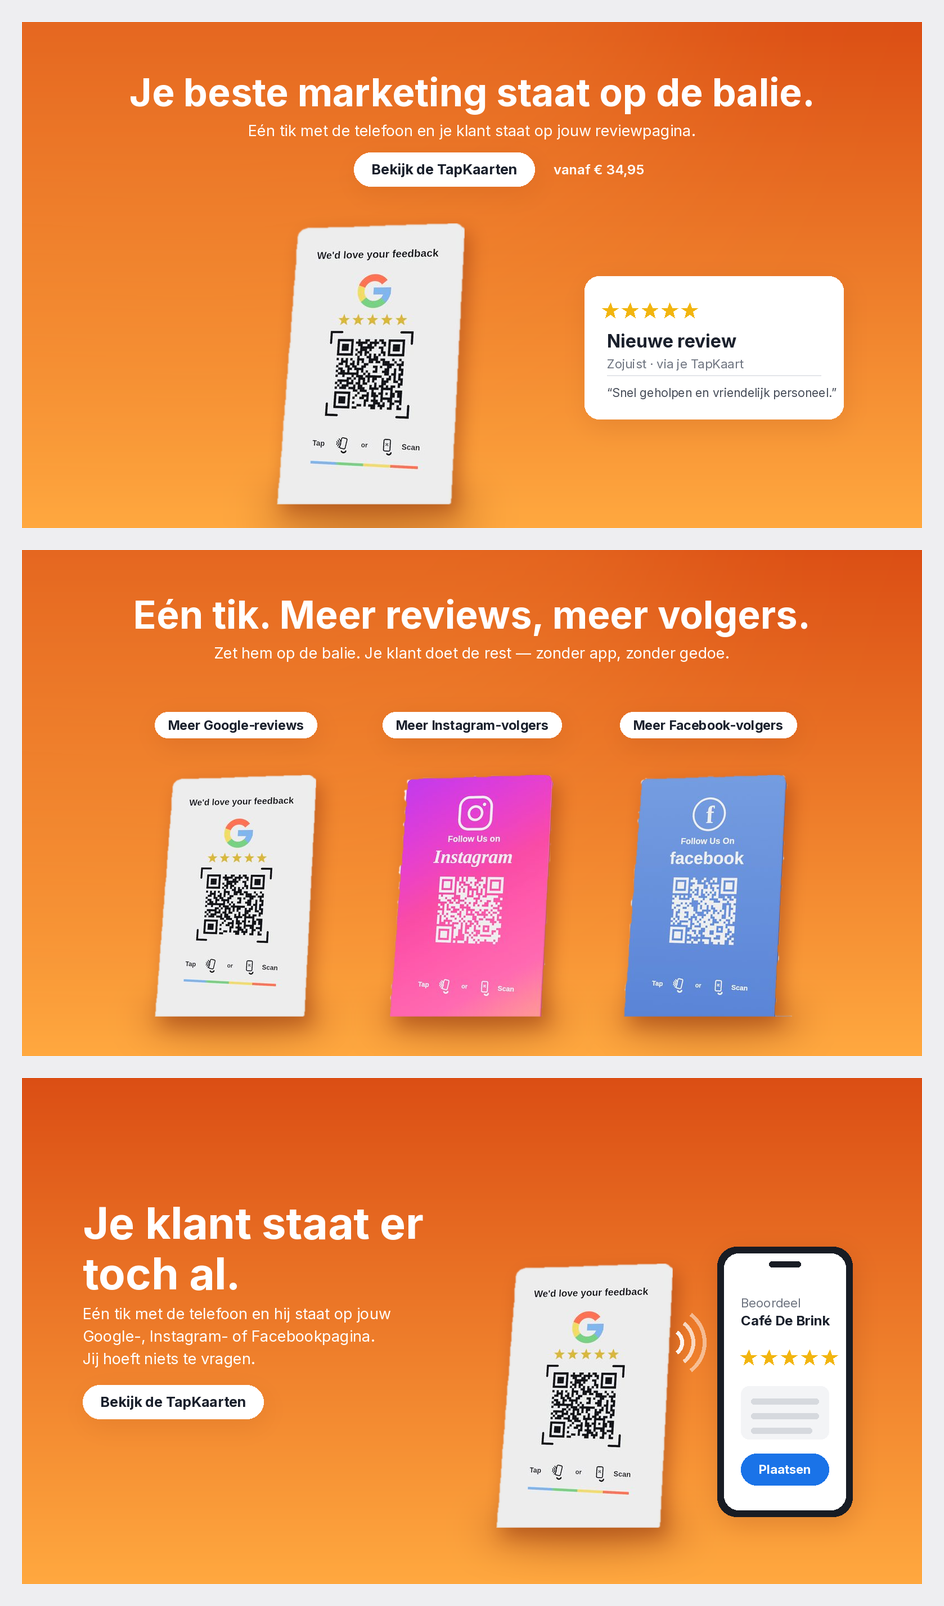
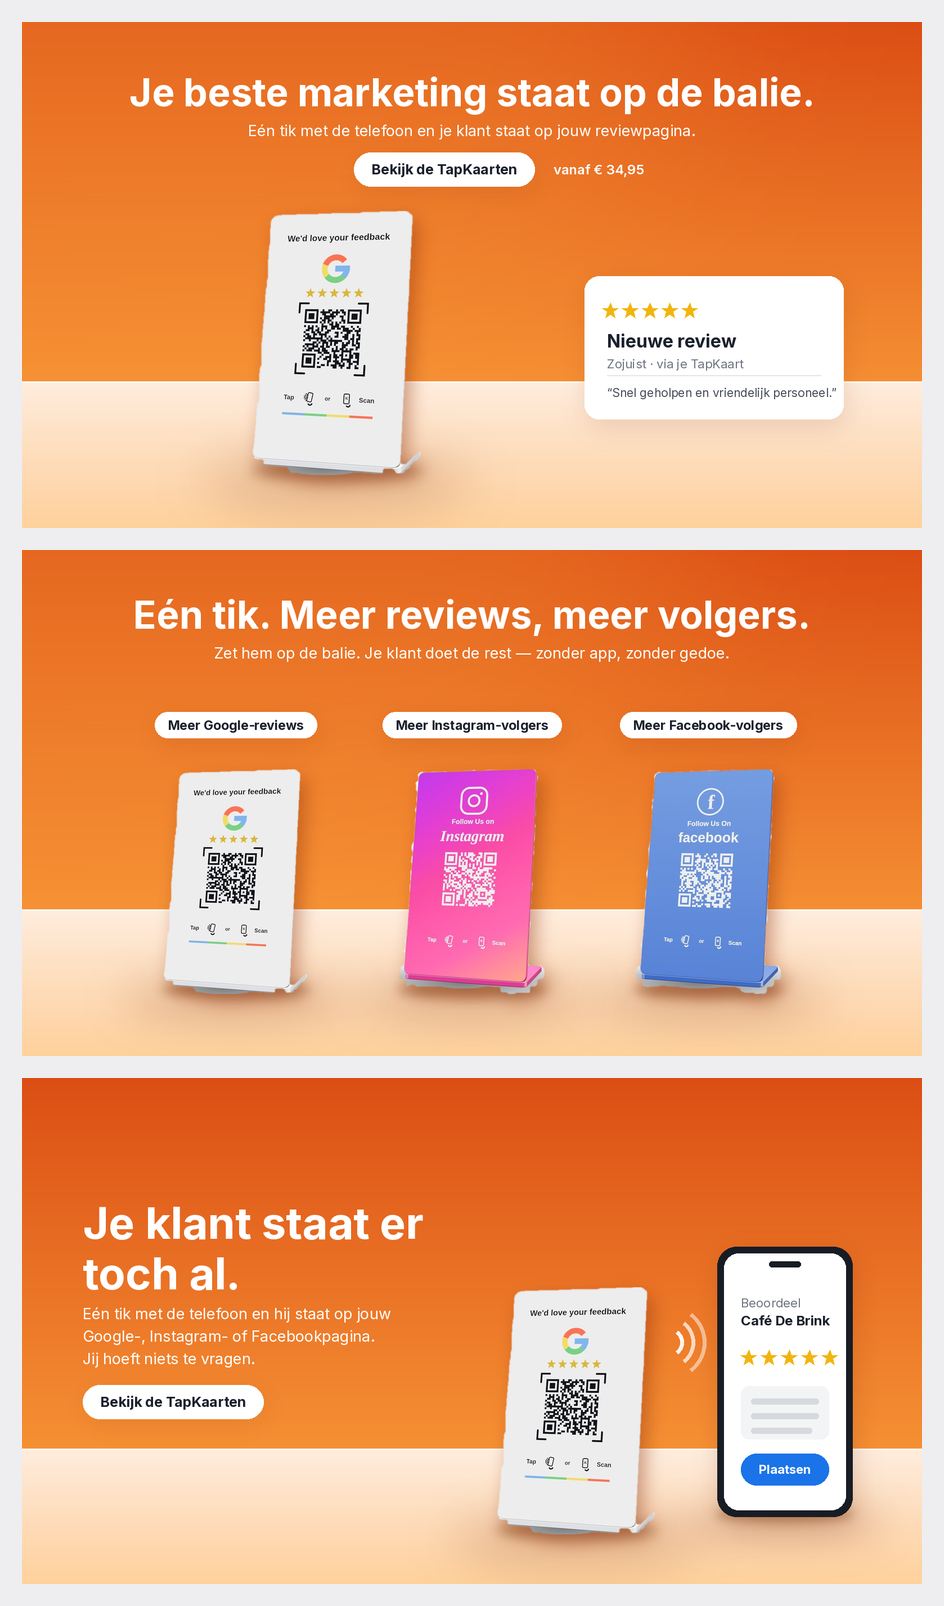
Hero-voorstellen: de voet erop en een balie eronder
De bordjes lazen als kaartjes. Twee oorzaken: de voet was weggeknipt bij
het scheiden van de slagschaduw, en er was geen vlak om op te staan.

De schaduw wordt nu op kleur herkend in plaats van op breedte — hij houdt
de blauwzweem van de achtergrond, het product niet. Daarmee blijft de voet
staan. Verder een balieblad met contactschaduw onder elk bordje.

Changed region(s): [[0.0, 0.467, 0.9831, 0.6849], [0.0, 0.1245, 0.9831, 0.3425], [0.0, 0.7783, 0.9831, 0.9963]]

diff --git a/webshop/hero-voorstellen/uitknippen.py b/webshop/hero-voorstellen/uitknippen.py
@@ -58,48 +58,66 @@ def slijp(masker, straal, groei=False):
     return np.array(b) > 127
 
 
-def zonder_schaduw(masker):
-    """De slagschaduw is een ellips die veel breder is dan het bordje.
+def schaduwmasker(a, bg):
+    """Welke pixels zijn slagschaduw en dus geen product.
 
-    Van boven naar beneden blijft de breedte van het masker vrij constant —
-    dat is het paneel met zijn voetje. Waar de ellips begint schiet die
-    breedte omhoog. Op dat punt knippen we, en de schaduw tekenen we later
-    zelf: een grijze schaduw van een grijze ondergrond klopt niet op oranje.
+    De schaduw is niets anders dan de achtergrond, verdonkerd. Hij houdt
+    daarom de kleurverhouding van die achtergrond: die is blauwig, dus blauw
+    ligt er een paar punten boven rood. Het product niet — het witte en het
+    zwarte bordje zijn neutraal (blauw min rood is nul), het roze bordje zit
+    tientallen punten de andere kant op en het blauwe bordje ver de goede
+    kant op. Een smalle band rond de zweem van de achtergrond pikt er dus
+    precies de schaduw uit, en laat de voet van de standaard staan.
+
+    Knippen op breedte werkte niet: de voet is óók breder dan het paneel, dus
+    dan verlies je juist het onderdeel waaraan je ziet dat het een standaard is.
     """
-    breedtes = masker.sum(axis=1).astype(float)
-    gevuld = np.where(breedtes > 0)[0]
-    boven, onder = gevuld[0], gevuld[-1]
-    hoogte = onder - boven
-
-    # De overgang van voet naar schaduw is de scherpste verbreding in het
-    # onderste deel van de vorm: de voet groeit geleidelijk, de ellips schiet
-    # in een paar rijen naar buiten. Zoek dus de grootste sprong, niet een
-    # vaste verhouding — die knipte of de voet eraf of de schaduw er niet af.
-    start = boven + int(hoogte * 0.55)
-    venster = 6
-    sprongen = breedtes[start:onder + 1] - breedtes[start - venster:onder + 1 - venster]
-    grens = onder + 1 if len(sprongen) == 0 else start + int(np.argmax(sprongen)) - venster + 1
-
-    schoon = masker.copy()
-    schoon[grens:, :] = False
-    return schoon, grens
+    zweem_bg = bg[2] - bg[0]
+    zweem = a[:, :, 2] - a[:, :, 0]
+    helderheid = a.mean(axis=2)
+    # Ondergrens op de helderheid: een schaduw is de achtergrond maal een
+    # factor, dus altijd nog een lichte grijstint. Zonder die grens viel het
+    # zwarte bordje weg — dat is bijna zwart en heeft toevallig ook een paar
+    # punten blauwzweem.
+    return (
+        (zweem >= zweem_bg * 0.35)
+        & (zweem <= zweem_bg * 1.9)
+        & (helderheid < bg.mean() - 1.5)
+        & (helderheid > bg.mean() * 0.62)
+    )
 
 
-def knip(pad, tolerantie=9, erosie=3):
+def knip(pad, tolerantie=9, erosie=2):
     a = np.array(Image.open(pad).convert("RGB")).astype(int)
     bg = achtergrondkleur(a)
     d = np.abs(a - bg).sum(axis=-1)
 
     achtergrond = vlakvulling(d <= tolerantie)
-    voorgrond = ~achtergrond               # bordje + schaduw, gaten al gevuld
-    lichaam, grens = zonder_schaduw(voorgrond)
+    lichaam = ~achtergrond & ~schaduwmasker(a, bg)
+
+    # De kleurregel haalt ook grijstinten binnen het bordje weg: de QR-code,
+    # de tekst, het lichte vlak van de sticker. Die liggen ingesloten door de
+    # rand van het bordje, dus alles wat niet vanaf de buitenrand te bereiken
+    # is hoort er gewoon bij. Terugvullen dus.
+    # Tussen het paneel en de voet valt de eigen schaduw van het paneel. Die
+    # heeft schaduwkleur maar hoort bij het product, en hij is niet ingesloten,
+    # dus terugvullen helpt daar niet. Een sluiting (aangroeien, dan weer
+    # terugslijpen) overbrugt zo'n smalle band zonder de vorm te veranderen.
+    lichaam = slijp(slijp(lichaam, 7, groei=True), 7) & ~achtergrond
+    lichaam = ~vlakvulling(~lichaam)
+
+    # Langs de rand van een wit bordje loopt een paar pixels anti-aliasing die
+    # toevallig aan de schaduwregel voldoet; daar hapt hij stukjes uit. Die
+    # randband weer aangroeien, maar nooit verder dan de vlakvulling toestaat,
+    # zodat er geen schaduw terugkruipt.
+    lichaam = slijp(lichaam, 3, groei=True) & ~achtergrond
 
     # Randje wegslijpen zodat er geen lichte zoom van de oude achtergrond
     # blijft staan, daarna zacht maken.
     # De vlakvulling laat een gerafelde rand achter. Even vervagen en opnieuw
     # afkappen haalt de kartels eruit zonder de vorm te veranderen.
-    glad = Image.fromarray((lichaam * 255).astype(np.uint8)).filter(ImageFilter.GaussianBlur(1.6))
-    lichaam = np.array(glad) > 140
+    glad = Image.fromarray((lichaam * 255).astype(np.uint8)).filter(ImageFilter.GaussianBlur(2.4))
+    lichaam = np.array(glad) > 132
     lichaam = slijp(lichaam, erosie)
     alpha = Image.fromarray((lichaam * 255).astype(np.uint8)).filter(ImageFilter.GaussianBlur(0.9))
 
@@ -116,7 +134,7 @@ if __name__ == "__main__":
     import pathlib
     uit = pathlib.Path("/tmp/claude-0/-home-user-Claude/4ed8d6d3-2641-5570-b485-c23a1aa27fe7/scratchpad/uitknip")
     uit.mkdir(exist_ok=True)
-    for naam in ["tk3-prod-wit", "tk3-prod-zwart", "tk3-prod-insta", "tk3-prod-fb", "tk3-prod-sticker"]:
+    for naam in ["tk3-prod-wit", "tk3-prod-zwart", "tk3-prod-insta", "tk3-prod-fb"]:
         bak, dekking = knip(f"/home/user/Claude/webshop/theme3/assets/{naam}.jpg")
         bak.save(uit / f"{naam}.png")
         print(f"{naam:20} {bak.size[0]:4}x{bak.size[1]:<4}  beslaat {dekking*100:.1f}% van het origineel")

diff --git a/webshop/hero-voorstellen/heros.py b/webshop/hero-voorstellen/heros.py
@@ -53,6 +53,40 @@ def verloop(breedte, hoogte, hoek=True):
     return vlak
 
 
+def balie(doek, horizon, diepte=None):
+    """Een balieblad onder de bordjes.
+
+    Dit is wat het verschil maakt tussen 'een kaartje' en 'een standaard':
+    zonder vlak om op te staan blijft elk voorwerp een plaatje. Het blad is
+    een lichte warme baan die naar voren toe iets donkerder wordt, met een
+    scherpe lijn op de horizon als voorkant van de balie.
+    """
+    b, hoogte = doek.size
+    diepte = diepte or hoogte - horizon
+    blad = Image.new("RGBA", (b, diepte), (0, 0, 0, 0))
+    tek = ImageDraw.Draw(blad)
+    for i in range(diepte):
+        f = i / max(1, diepte - 1)
+        # vooraan iets donkerder: het blad vangt minder licht naar de kijker toe
+        dek = round(232 - 96 * f)
+        tek.line([(0, i), (b, i)], fill=(255, 246, 238, dek))
+    doek.paste(blad, (0, horizon), blad)
+
+    rand = Image.new("RGBA", doek.size, (0, 0, 0, 0))
+    ImageDraw.Draw(rand).line([(0, horizon), (b, horizon)], fill=(255, 255, 255, 210), width=3)
+    doek.paste(rand, (0, 0), rand)
+
+
+def contactschaduw(doek, midden_x, voet_y, breedte):
+    """Kort en donker, direct onder de voet — dat 'plakt' het bordje vast."""
+    laag = Image.new("L", doek.size, 0)
+    ImageDraw.Draw(laag).ellipse(
+        [midden_x - breedte / 2, voet_y - breedte * 0.055,
+         midden_x + breedte / 2, voet_y + breedte * 0.055], fill=150)
+    laag = laag.filter(ImageFilter.GaussianBlur(breedte * 0.035))
+    doek.paste(Image.new("RGB", doek.size, (150, 92, 48)), (0, 0), laag)
+
+
 def grondschaduw(doek, midden_x, onder_y, breedte, hoogte=None, sterkte=125):
     """Zachte ovale schaduw zodat een bordje op iets lijkt te staan.
 
@@ -72,7 +106,8 @@ def zet(doek, bordje, midden_x, onder_y, hoogte):
     """Bordje op ware verhouding neerzetten, met schaduw eronder."""
     schaal = hoogte / bordje.height
     b = bordje.resize((max(1, round(bordje.width * schaal)), round(hoogte)), Image.LANCZOS)
-    grondschaduw(doek, midden_x, onder_y + 4, b.width * 1.15)
+    grondschaduw(doek, midden_x, onder_y + 10, b.width * 1.6, sterkte=70)
+    contactschaduw(doek, midden_x, onder_y - 8, b.width * 1.02)
     # eigen slagschaduw van het bordje, iets naar rechtsonder
     eigen = Image.new("L", doek.size, 0)
     eigen.paste(b.getchannel("A"), (round(midden_x - b.width / 2) + 10, round(onder_y - b.height) + 14))
@@ -149,7 +184,8 @@ def hero_een():
     ImageDraw.Draw(doek).text((x + 34, 262), "vanaf € 34,95", font=font(600, 24),
                               fill=(255, 255, 255), anchor="lm")
 
-    zet(doek, bordje("tk3-prod-wit"), 620, 858, 500)
+    balie(doek, 640)
+    zet(doek, bordje("tk3-prod-wit"), 560, 806, 470)
 
     # Wat het oplevert: een melding zoals je die op je telefoon krijgt.
     kaart = [1000, 452, 1460, 706]
@@ -176,6 +212,8 @@ def hero_twee():
     tek.text((B / 2, 166), "Zet hem op de balie. Je klant doet de rest — zonder app, zonder gedoe.",
              font=font(400, 27), fill=(255, 255, 255, 220), anchor="ma")
 
+    balie(doek, 640)
+
     for i, (naam, label) in enumerate([
         ("tk3-prod-wit", "Meer Google-reviews"),
         ("tk3-prod-insta", "Meer Instagram-volgers"),
@@ -186,7 +224,7 @@ def hero_twee():
         breed = tek.textlength(label, font=f) + 46
         paneel(doek, [mx - breed / 2, 288, mx + breed / 2, 288 + 46], 23)
         ImageDraw.Draw(doek).text((mx, 311), label, font=f, fill=INKT, anchor="mm")
-        zet(doek, bordje(naam), mx, 830, 430)
+        zet(doek, bordje(naam), mx, 790, 400)
 
     doek.save(UIT / "hero-2-drieluik.png")
 
@@ -205,10 +243,13 @@ def hero_drie():
              font=font(400, 27), fill=(255, 255, 255, 225), spacing=13)
     knop(doek, tek, marge, 546, "Bekijk de TapKaarten")
 
-    b = zet(doek, bordje("tk3-prod-wit"), 1000, 800, 470)
+    balie(doek, 660)
+    b = zet(doek, bordje("tk3-prod-wit"), 985, 812, 440)
 
     # Telefoon rechts met het scherm waar de klant op uitkomt.
     tel = [1236, 300, 1476, 780]
+    grondschaduw(doek, (tel[0] + tel[2]) / 2, tel[3] + 12, (tel[2] - tel[0]) * 1.5, sterkte=70)
+    contactschaduw(doek, (tel[0] + tel[2]) / 2, tel[3] - 4, (tel[2] - tel[0]) * 1.02)
     paneel(doek, tel, 34, (24, 28, 36), schaduw=52)
     scherm = [tel[0] + 12, tel[1] + 12, tel[2] - 12, tel[3] - 12]
     paneel(doek, scherm, 26, (255, 255, 255), schaduw=0)

diff --git a/webshop/hero-voorstellen/LEESMIJ.md b/webshop/hero-voorstellen/LEESMIJ.md
@@ -9,6 +9,21 @@ groter dan nu, en iets in beeld dat laat zien wát het doet.
 | `hero-2-drieluik.png` | Drie bordjes naast elkaar met hun doel erboven | Laat het hele assortiment zien | Geen enkel bordje is echt groot |
 | `hero-3-mechanisme.png` | Tekst links, bordje → tik → telefoonscherm rechts | Legt uit hoe het werkt zonder één woord uitleg | Drukste beeld van de drie |
 
+## Dat het een standaard is, en geen kaartje
+
+Twee dingen doen dat werk:
+
+1. **De voet staat erop.** In de eerste versie was die weggeknipt. De schaduw
+   werd toen gescheiden op breedte, en de voet is óók breder dan het paneel —
+   dus die verdween mee. Nu wordt de schaduw op kleur herkend: hij is de
+   achtergrond maal een factor en houdt daardoor de blauwzweem daarvan
+   (blauw min rood is 3 tot 5), terwijl het witte en zwarte bordje neutraal
+   zijn en het roze en blauwe bordje er ver naast liggen.
+2. **Er ligt een balieblad onder.** Zonder vlak om op te staan blijft elk
+   voorwerp een plaatje. Het blad heeft een lichte voorrand op de horizon, en
+   onder elke voet zit een korte donkere contactschaduw — dat 'plakt' het
+   bordje aan het blad vast.
+
 ## Waar de bordjes vandaan komen
 
 Uit je eigen productfoto's (`tk3-prod-*.jpg`), uitgeknipt van hun egale
@@ -29,8 +44,11 @@ gescheiden op de plek waar het masker ineens veel breder wordt.
    schermgrootte anders bij (die verhoudingen staan al in de CSS); voor het
    gekozen voorstel moet er een staande variant komen, anders valt het bordje
    op een telefoon buiten beeld.
-3. **De foto van het zwarte bordje** staat er nog niet in, en de twee nieuwe
-   review-standaards ook niet — daar zijn nog geen foto's van.
+3. **Het zwarte bordje** is wel vrijgesteld (`uitknip/tk3-prod-zwart.png`)
+   maar staat in geen van de drie voorstellen; de twee nieuwe
+   review-standaards ontbreken nog helemaal, daar zijn geen foto's van.
+4. **De sticker** doet niet mee. Dat is geen standaard, en zijn lichte vlak
+   loopt tot de rand door waardoor de kleurregel er gaten in slaat.
 
 ## Zelf aanpassen
 
